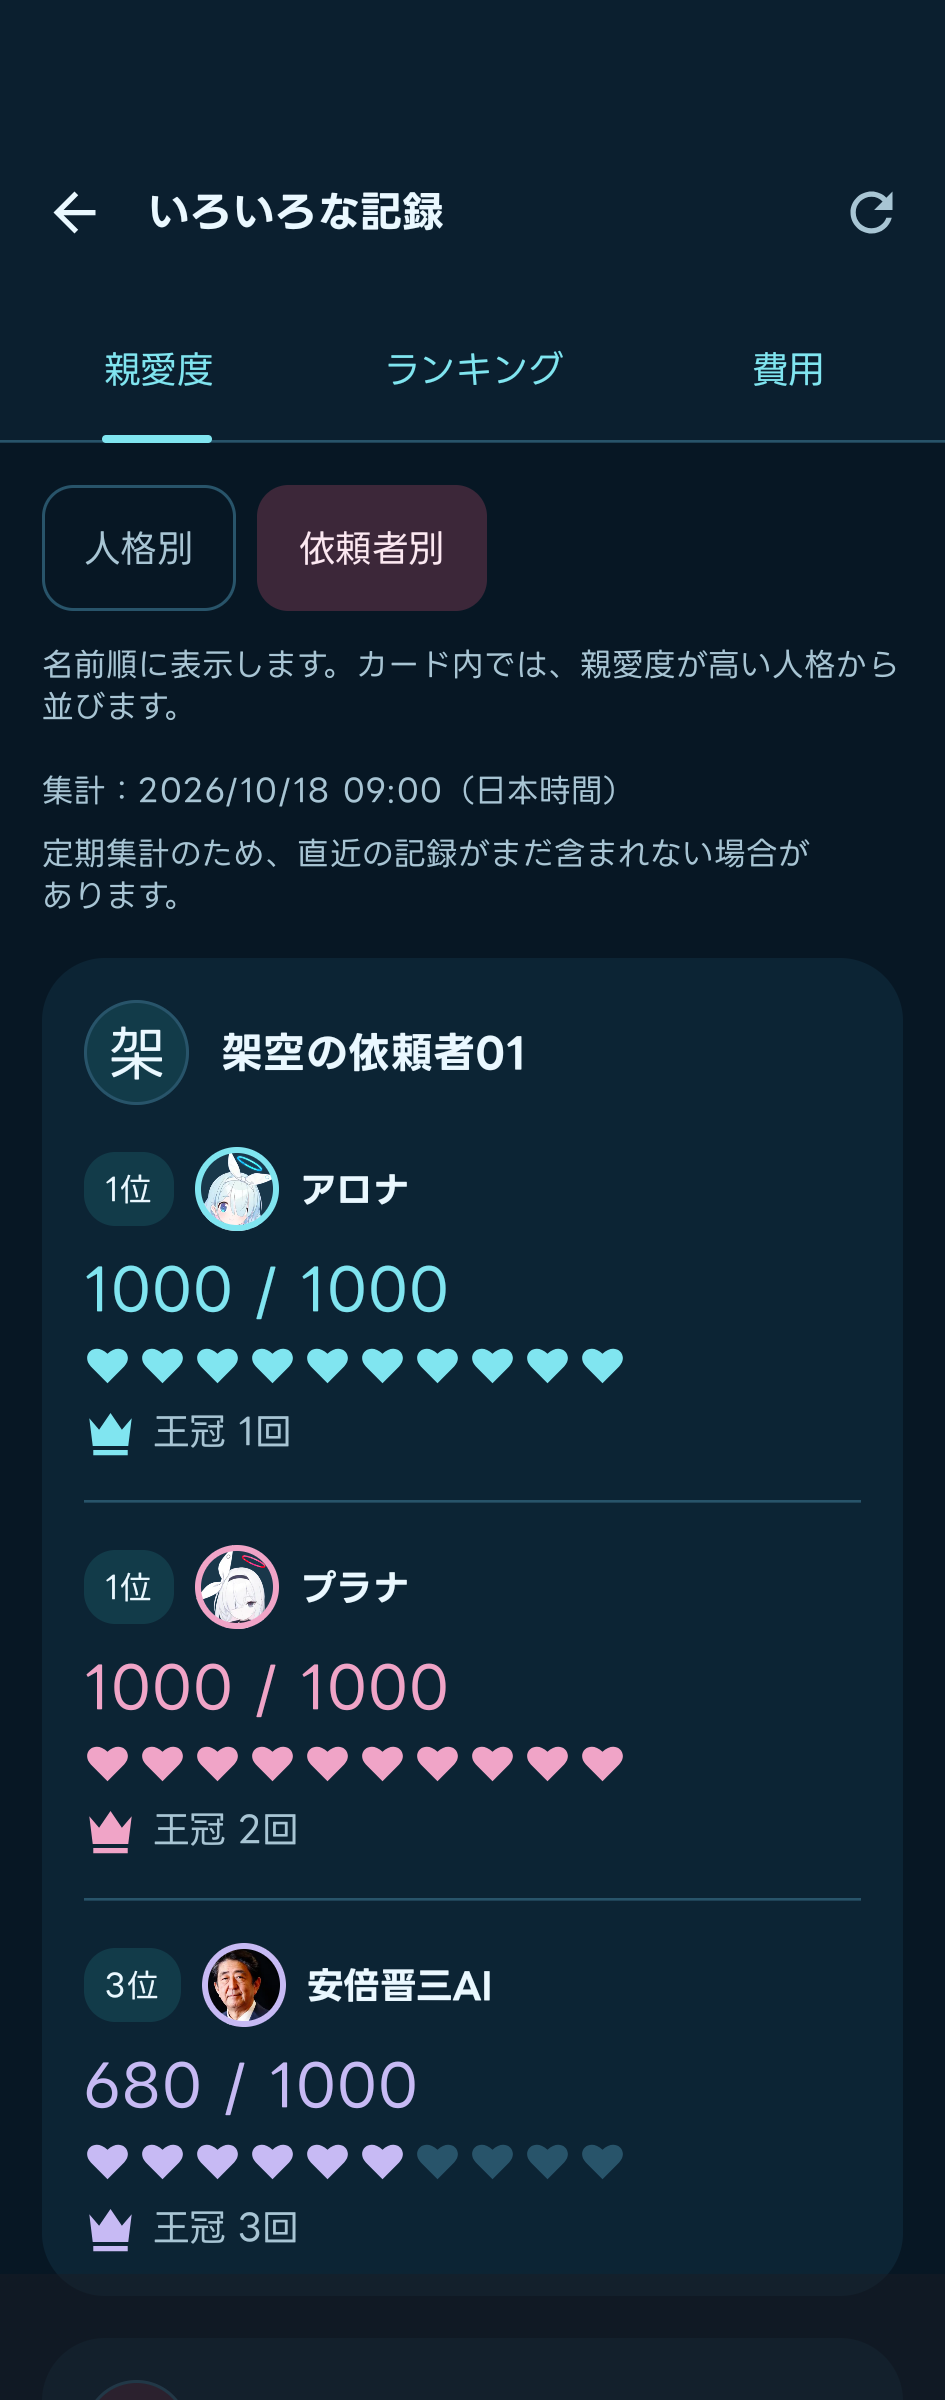
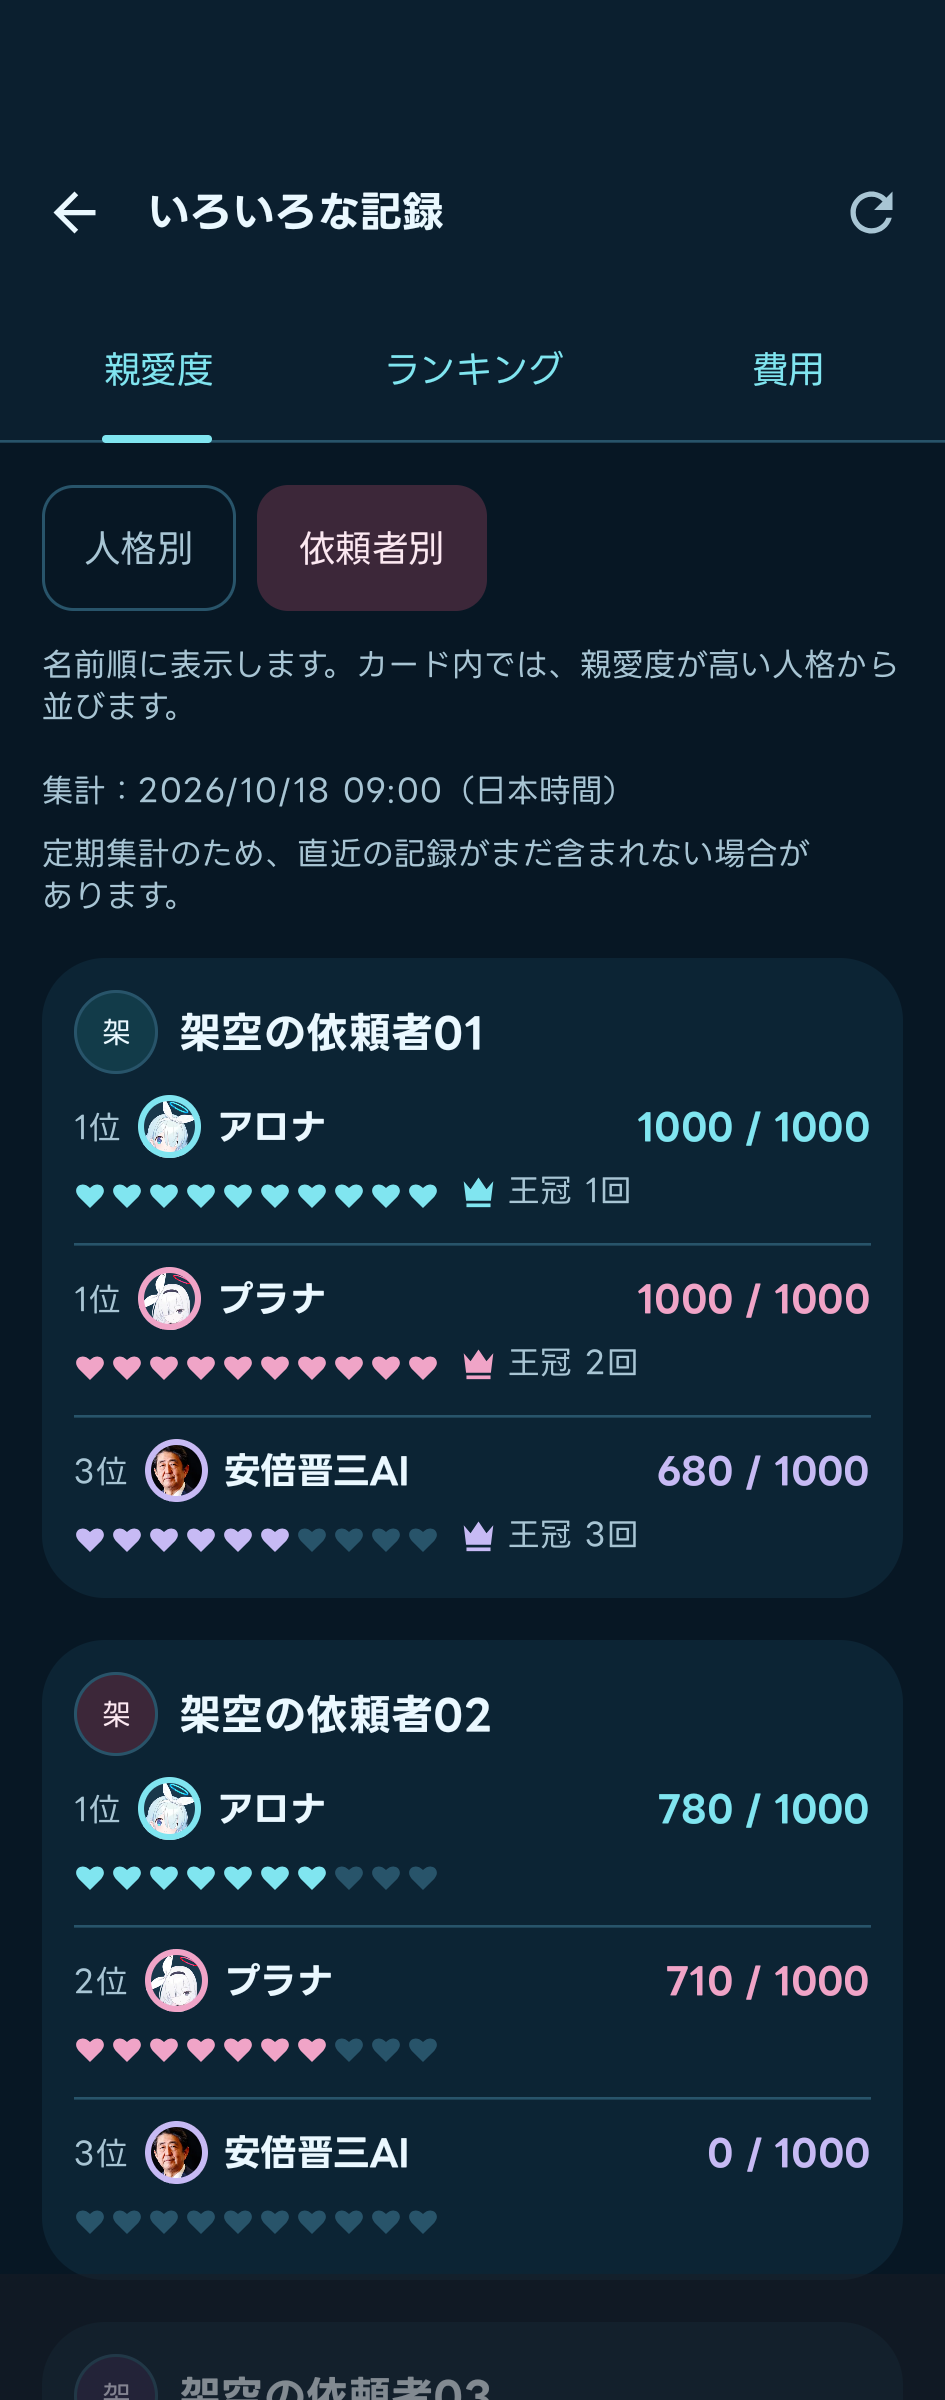
依頼者別親愛度をコンパクトな比較行に整理する

diff --git a/apps/records-android/app/src/androidTest/java/dev/pitekusu/shittim/records/RequesterAffectionUiTest.kt b/apps/records-android/app/src/androidTest/java/dev/pitekusu/shittim/records/RequesterAffectionUiTest.kt
@@ -1,0 +1,150 @@
+package dev.pitekusu.shittim.records
+
+import android.graphics.Bitmap
+import androidx.activity.compose.setContent
+import androidx.compose.foundation.layout.Box
+import androidx.compose.foundation.layout.fillMaxHeight
+import androidx.compose.foundation.layout.width
+import androidx.compose.runtime.CompositionLocalProvider
+import androidx.compose.ui.Modifier
+import androidx.compose.ui.graphics.asAndroidBitmap
+import androidx.compose.ui.platform.LocalConfiguration
+import androidx.compose.ui.platform.LocalDensity
+import androidx.compose.ui.semantics.SemanticsActions
+import androidx.compose.ui.test.assertContentDescriptionEquals
+import androidx.compose.ui.test.assertCountEquals
+import androidx.compose.ui.test.assertIsDisplayed
+import androidx.compose.ui.test.captureToImage
+import androidx.compose.ui.test.hasTestTag
+import androidx.compose.ui.test.junit4.v2.createAndroidComposeRule
+import androidx.compose.ui.test.onAllNodesWithTag
+import androidx.compose.ui.test.onAllNodesWithText
+import androidx.compose.ui.test.onNodeWithTag
+import androidx.compose.ui.test.onNodeWithText
+import androidx.compose.ui.test.onRoot
+import androidx.compose.ui.test.performScrollToNode
+import androidx.compose.ui.test.performSemanticsAction
+import androidx.compose.ui.text.TextLayoutResult
+import androidx.compose.ui.unit.Density
+import androidx.compose.ui.unit.dp
+import androidx.test.ext.junit.runners.AndroidJUnit4
+import androidx.test.platform.app.InstrumentationRegistry
+import dev.pitekusu.shittim.records.ui.ShittimTheme
+import java.io.File
+import org.junit.Assert.assertEquals
+import org.junit.Assert.assertFalse
+import org.junit.Assert.assertTrue
+import org.junit.Rule
+import org.junit.Test
+import org.junit.runner.RunWith
+
+@RunWith(AndroidJUnit4::class)
+@ScreenTest
+class RequesterAffectionUiTest {
+  @get:Rule val compose = createAndroidComposeRule<MainActivity>()
+
+  @Test fun threePersonaComparisonKeepsTiesExactScoresAndEachPersonasCrowns() {
+    val original = requireNotNull(insightsSampleState().requesters.data).first().requesters.first()
+    // Input order deliberately differs from score order. Two top scores share first place.
+    val requester = original.copy(participants = original.participants.mapIndexed { index, person ->
+      person.copy(score = if (index == 0) 0 else 1000, resetCount = index + 1)
+    })
+    show(requesterState(listOf(requester)))
+    scrollToCard()
+    val sorted = listOf(requester.participants[1], requester.participants[2], requester.participants[0])
+    val positions = sorted.mapIndexed { index, person ->
+      val node = compose.onNodeWithTag(personTag(person))
+      node.assertIsDisplayed().assertContentDescriptionEquals(summary(person, if (index < 2) 1 else 3))
+      node.fetchSemanticsNode().boundsInRoot.top
+    }
+    assertTrue(positions.zipWithNext().all { (first, second) -> first < second })
+  }
+
+  @Test fun narrowLargeTextPreservesLongNamesAndLargeCrownCounts() {
+    val original = requireNotNull(insightsSampleState().requesters.data).first().requesters.first()
+    val requester = original.copy(displayName = "架空のとても長い名前を使う依頼者01",
+      participants = original.participants.mapIndexed { index, person ->
+        person.copy(displayName = "とても長い名前の${person.displayName}",
+          score = 1000 - index * 500, resetCount = 123456789 + index)
+      })
+    show(requesterState(listOf(requester)), width = 320, fontScale = 2f)
+    scrollToCard()
+    val nameLayouts = mutableListOf<TextLayoutResult>()
+    compose.onNodeWithText(requester.displayName, useUnmergedTree = true)
+      .performSemanticsAction(SemanticsActions.GetTextLayoutResult) { it(nameLayouts) }
+    assertEquals(1, nameLayouts.size)
+    assertFalse(nameLayouts.single().hasVisualOverflow)
+    requester.participants.forEachIndexed { index, person ->
+      compose.onNodeWithTag("insights-content").performScrollToNode(hasTestTag(personTag(person)))
+      compose.onNodeWithTag(personTag(person)).assertIsDisplayed()
+        .assertContentDescriptionEquals(summary(person, index + 1))
+      val row = compose.onNodeWithTag(personTag(person)).fetchSemanticsNode().boundsInRoot
+      val viewport = compose.onNodeWithTag("insights-content").fetchSemanticsNode().boundsInRoot
+      assertTrue(row.width > 0 && row.left >= viewport.left && row.right <= viewport.right)
+    }
+  }
+
+  @Test fun identicalRequesterNamesRemainSeparateCardsInTheWideComparison() {
+    val original = requireNotNull(insightsSampleState().requesters.data).first().requesters.first()
+    val other = original.copy(participants = original.participants.map { it.copy(score = 0, resetCount = 7) })
+    show(requesterState(listOf(original, other)), width = 900)
+    scrollToCard()
+    compose.onAllNodesWithText(original.displayName).assertCountEquals(2)
+    val cards = compose.onAllNodesWithTag("insights-requester-card").assertCountEquals(2)
+    cards[0].assertIsDisplayed()
+    cards[1].assertIsDisplayed()
+    val left = cards[0].fetchSemanticsNode().boundsInRoot
+    val right = cards[1].fetchSemanticsNode().boundsInRoot
+    assertEquals(left.top, right.top, 1f)
+    assertTrue(left.right <= right.left)
+    val arona = compose.onAllNodesWithTag(personTag(original.participants.first()))
+    arona[0].assertContentDescriptionEquals(summary(original.participants.first(), 1))
+    arona[1].assertContentDescriptionEquals(summary(other.participants.first(), 1))
+  }
+
+  /** Opt-in visual evidence; normal CI performs no bitmap capture or image comparison. */
+  @Test fun captureCompactRequesterLayouts() {
+    if (InstrumentationRegistry.getArguments().getString("shittimCaptureRequester") != "true") return
+    data class Layout(val name: String, val width: Int, val font: Float, val dark: Boolean)
+    val layouts = listOf(Layout("light", 360, 1f, false), Layout("dark", 360, 1f, true),
+      Layout("320dp-2x", 320, 2f, false), Layout("wide", 900, 1f, false))
+    val requesters = requireNotNull(insightsSampleState().requesters.data).first().requesters
+    layouts.forEach { layout ->
+      show(requesterState(requesters), layout.width, layout.font, layout.dark)
+      scrollToCard()
+      val bitmap = compose.onRoot().captureToImage().asAndroidBitmap()
+      File(requireNotNull(compose.activity.getExternalFilesDir(null)), "requester-compact-${layout.name}.png")
+        .outputStream().use { bitmap.compress(Bitmap.CompressFormat.PNG, 100, it) }
+    }
+  }
+
+  private fun requesterState(requesters: List<InsightsRequester>): InsightsUiState {
+    val sample = insightsSampleState()
+    val page = requireNotNull(sample.requesters.data).first().copy(requesters = requesters, nextCursor = null)
+    return sample.copy(view = InsightsAffectionView.Requesters, requesters = InsightsResource(listOf(page)))
+  }
+
+  private fun personTag(person: InsightsRequesterParticipant) = "insights-requester-person-${person.participant}"
+
+  private fun summary(person: InsightsRequesterParticipant, rank: Int) = compose.activity.getString(
+    R.string.insights_requester_person_summary, person.displayName, rank, person.score, person.score / 100,
+    person.resetCount)
+
+  private fun scrollToCard() {
+    compose.onNodeWithTag("insights-content").performScrollToNode(hasTestTag("insights-requester-card"))
+  }
+
+  private fun show(state: InsightsUiState, width: Int = 360, fontScale: Float = 1f, dark: Boolean = false) {
+    compose.activityRule.scenario.onActivity { activity ->
+      activity.setContent {
+        val density = LocalDensity.current
+        val viewportDensity = density.density * minOf(1f, LocalConfiguration.current.screenWidthDp.toFloat() / width)
+        CompositionLocalProvider(LocalDensity provides Density(viewportDensity, fontScale)) {
+          ShittimTheme(dark) {
+            Box(Modifier.width(width.dp).fillMaxHeight()) { InsightsScreen(state, {}) }
+          }
+        }
+      }
+    }
+  }
+}

diff --git a/apps/records-android/app/src/main/java/dev/pitekusu/shittim/records/InsightsScreen.kt b/apps/records-android/app/src/main/java/dev/pitekusu/shittim/records/InsightsScreen.kt
@@ -60,7 +60,9 @@ import androidx.compose.ui.semantics.heading
 import androidx.compose.ui.semantics.liveRegion
 import androidx.compose.ui.semantics.semantics
 import androidx.compose.ui.semantics.stateDescription
+import androidx.compose.ui.text.style.TextAlign
 import androidx.compose.ui.tooling.preview.Preview
+import androidx.compose.ui.unit.Dp
 import androidx.compose.ui.unit.dp
 import dev.pitekusu.shittim.records.ui.ShittimParticipantAvatar
 import dev.pitekusu.shittim.records.ui.ShittimProgress
@@ -395,9 +397,9 @@ private fun AffectionRankingCard(entry: InsightsAffectionEntry, participant: Str
 @Composable
 private fun RequesterAffectionCard(requester: InsightsRequester, modifier: Modifier = Modifier) {
   val largeText = LocalDensity.current.fontScale >= 1.5f
-  InsightsCard(modifier.testTag("insights-requester-card")) {
-    Row(horizontalArrangement = Arrangement.spacedBy(12.dp), verticalAlignment = Alignment.CenterVertically) {
-      RequesterAvatar(requester.displayName, requester.avatar, size = 40.dp)
+  InsightsCard(modifier.testTag("insights-requester-card"), contentPadding = 12.dp, contentSpacing = 8.dp) {
+    Row(horizontalArrangement = Arrangement.spacedBy(8.dp), verticalAlignment = Alignment.CenterVertically) {
+      RequesterAvatar(requester.displayName, requester.avatar, size = 32.dp)
       if (!largeText) Text(requester.displayName, style = MaterialTheme.typography.titleMediumEmphasized,
         modifier = Modifier.weight(1f).semantics { heading() })
     }
@@ -407,16 +409,40 @@ private fun RequesterAffectionCard(requester: InsightsRequester, modifier: Modif
     participants.forEachIndexed { index, person ->
       if (index > 0) HorizontalDivider()
       val rank = participants.indexOfFirst { it.score == person.score } + 1
-      Column(verticalArrangement = Arrangement.spacedBy(8.dp)) {
-        Row(horizontalArrangement = Arrangement.spacedBy(8.dp), verticalAlignment = Alignment.CenterVertically) {
-          RankBadge(rank)
-          ShittimParticipantAvatar(person.displayName, person.participant, 32.dp)
-          if (!largeText) Text(person.displayName, style = MaterialTheme.typography.titleSmallEmphasized,
-            modifier = Modifier.weight(1f))
+      RequesterAffectionComparison(person, rank)
+    }
+  }
+}
+
+@Composable
+private fun RequesterAffectionComparison(person: InsightsRequesterParticipant, rank: Int) {
+  val accent = shittimParticipantColor("", person.participant)
+  val summary = stringResource(R.string.insights_requester_person_summary,
+    person.displayName, rank, person.score, person.score / 100, person.resetCount)
+  BoxWithConstraints(Modifier.fillMaxWidth().testTag("insights-requester-person-${person.participant}")
+    .clearAndSetSemantics { contentDescription = summary }) {
+    val separateScore = maxWidth < 280.dp || LocalDensity.current.fontScale >= 1.5f
+    Column(verticalArrangement = Arrangement.spacedBy(4.dp)) {
+      Row(Modifier.fillMaxWidth(), horizontalArrangement = Arrangement.spacedBy(6.dp),
+        verticalAlignment = Alignment.CenterVertically) {
+        Text(stringResource(R.string.insights_rank, rank), style = MaterialTheme.typography.labelMedium,
+          color = MaterialTheme.colorScheme.onSurfaceVariant)
+        ShittimParticipantAvatar(person.displayName, person.participant, 24.dp)
+        Text(person.displayName, Modifier.weight(1f), style = MaterialTheme.typography.titleSmallEmphasized)
+        if (!separateScore) Text(stringResource(R.string.insights_score, person.score),
+          style = MaterialTheme.typography.titleSmallEmphasized, color = accent, softWrap = false)
+      }
+      if (separateScore) Text(stringResource(R.string.insights_score, person.score),
+        modifier = Modifier.fillMaxWidth(), textAlign = TextAlign.End,
+        style = MaterialTheme.typography.titleSmallEmphasized, color = accent)
+      FlowRow(horizontalArrangement = Arrangement.spacedBy(8.dp), verticalArrangement = Arrangement.spacedBy(4.dp)) {
+        AffectionHearts(person.score, person.participant, Modifier.heightIn(min = 20.dp), size = 12.dp, spacing = 2.dp)
+        if (person.resetCount > 0) Row(horizontalArrangement = Arrangement.spacedBy(4.dp),
+          verticalAlignment = Alignment.CenterVertically) {
+          Icon(painterResource(R.drawable.ic_crown), null, Modifier.size(14.dp), tint = accent)
+          Text(stringResource(R.string.insights_crowns, person.resetCount),
+            style = MaterialTheme.typography.labelMedium, color = MaterialTheme.colorScheme.onSurfaceVariant)
         }
-        if (largeText) Text(person.displayName, style = MaterialTheme.typography.titleSmallEmphasized,
-          modifier = Modifier.fillMaxWidth())
-        ScorePresentation(person.score, person.resetCount, person.participant)
       }
     }
   }
@@ -425,22 +451,29 @@ private fun RequesterAffectionCard(requester: InsightsRequester, modifier: Modif
 @Composable
 private fun ScorePresentation(score: Int, resets: Int, participant: String) {
   val accent = shittimParticipantColor("", participant)
-  val heartCount = score / 100
-  val heartsDescription = stringResource(R.string.insights_hearts, heartCount)
   Column(Modifier.fillMaxWidth(), verticalArrangement = Arrangement.spacedBy(6.dp)) {
     Text(stringResource(R.string.insights_score, score), style = MaterialTheme.typography.titleLarge,
       color = accent)
-    Row(Modifier.clearAndSetSemantics { contentDescription = heartsDescription },
-      horizontalArrangement = Arrangement.spacedBy(3.dp)) {
-      repeat(10) { index ->
-        Icon(painterResource(R.drawable.ic_detail_heart), null, Modifier.size(18.dp),
-          tint = if (index < heartCount) accent else MaterialTheme.colorScheme.outlineVariant)
-      }
-    }
+    AffectionHearts(score, participant)
     if (resets > 0) Row(horizontalArrangement = Arrangement.spacedBy(6.dp), verticalAlignment = Alignment.CenterVertically) {
       Icon(painterResource(R.drawable.ic_crown), null, Modifier.size(20.dp), tint = accent)
       Text(stringResource(R.string.insights_crowns, resets), style = MaterialTheme.typography.labelLarge,
         color = MaterialTheme.colorScheme.onSurfaceVariant)
+    }
+  }
+}
+
+@Composable
+private fun AffectionHearts(score: Int, participant: String, modifier: Modifier = Modifier,
+  size: Dp = 18.dp, spacing: Dp = 3.dp) {
+  val accent = shittimParticipantColor("", participant)
+  val heartCount = score / 100
+  val description = stringResource(R.string.insights_hearts, heartCount)
+  Row(modifier.clearAndSetSemantics { contentDescription = description },
+    horizontalArrangement = Arrangement.spacedBy(spacing), verticalAlignment = Alignment.CenterVertically) {
+    repeat(10) { index ->
+      Icon(painterResource(R.drawable.ic_detail_heart), null, Modifier.size(size),
+        tint = if (index < heartCount) accent else MaterialTheme.colorScheme.outlineVariant)
     }
   }
 }
@@ -633,10 +666,11 @@ private fun EmptyInsights() {
 }
 
 @Composable
-private fun InsightsCard(modifier: Modifier = Modifier, content: @Composable ColumnScope.() -> Unit) {
+private fun InsightsCard(modifier: Modifier = Modifier, contentPadding: Dp = 16.dp,
+  contentSpacing: Dp = 16.dp, content: @Composable ColumnScope.() -> Unit) {
   Surface(modifier.fillMaxWidth(), shape = MaterialTheme.shapes.large,
     color = MaterialTheme.colorScheme.surfaceContainerLow) {
-    Column(Modifier.padding(16.dp), verticalArrangement = Arrangement.spacedBy(16.dp), content = content)
+    Column(Modifier.padding(contentPadding), verticalArrangement = Arrangement.spacedBy(contentSpacing), content = content)
   }
 }
 
